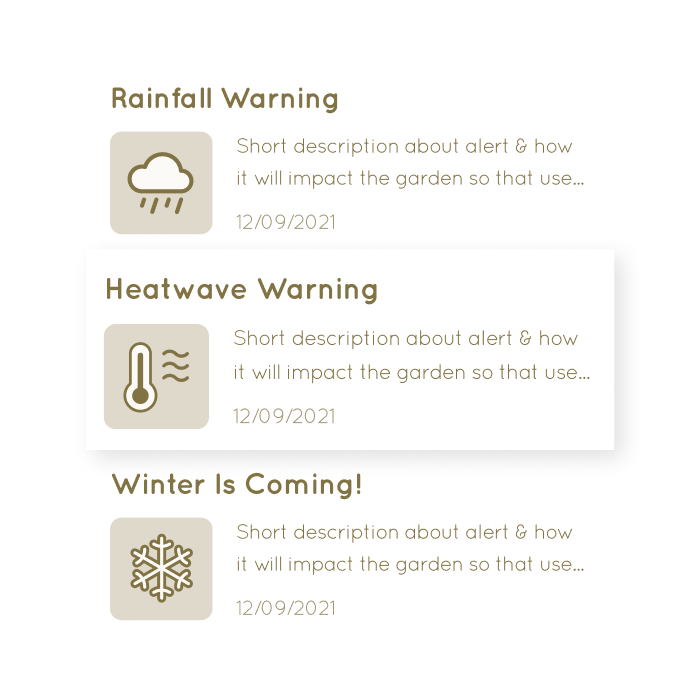
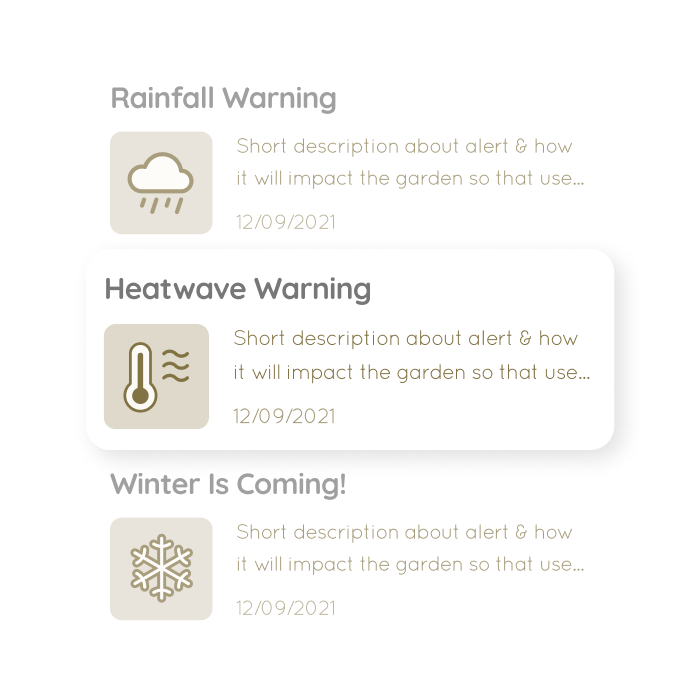
Features polish

diff --git a/style.css b/style.css
@@ -69,17 +69,19 @@ h1 {
 }
 
 h2 {
-  color: #334924;
+  color: #635834;
   font-size: 1.5rem;
   margin: 0;
   letter-spacing: -.02px;
 }
 
-h3, p {
-  color: #635834;
+h3 {
+  color: #827344;
+  margin: .5rem auto;
 }
 
 p {
+  color: #635834;
   font-size: .8rem;
 }
 
@@ -94,14 +96,6 @@ p {
 
 .team-wrapper p {
   margin: .5rem 0;
-}
-
-.features-wrapper h3 {
-  margin: 0.8rem auto;
-}
-
-#team h3 {
-  margin: .5rem auto;
 }
 
 @media screen and (min-width: 768px) {
@@ -211,8 +205,8 @@ main {
   text-align: center;
 }
 
-.features-wrapper p, .team-wrapper p, .features-wrapper h3, .team-wrapper h3, .links {
-  max-width: 82%;
+.features-wrapper p, .team-wrapper p, .links {
+  max-width: 90%;
   margin: .5rem auto;
 }
 
@@ -385,7 +379,7 @@ header img {
 
 .hero-wrapper img {
   width: 50px;
-  opacity: 70%;
+  opacity: 80%;
 }
 
 @media screen and (min-width: 768px) {

diff --git a/sass/partials/typography/_typography.scss b/sass/partials/typography/_typography.scss
@@ -14,15 +14,18 @@ h1 {
     color: #635834;
 }
 h2 {
-    color: #334924;
+    // color: #7D9867;
+    color: #635834;
     font-size: 1.5rem;
     margin: 0;
     letter-spacing: -.02px;
 }
-h3, p {
-    color: #635834;
+h3 { 
+    color: #827344;
+    margin: .5rem auto;
 }
 p {
+    color: #635834;
     font-size: .8rem;
 }
 .hero-wrapper p{
@@ -35,15 +38,6 @@ p {
 .team-wrapper p {
     margin: .5rem 0;
 }
-
-.features-wrapper h3 {
-    margin: 0.8rem auto;
-}
-
-#team h3{
-    margin: .5rem auto;
-}
-
 
 @media screen and (min-width:768px) {
 

diff --git a/sass/partials/layout/_main.scss b/sass/partials/layout/_main.scss
@@ -37,8 +37,8 @@ main {
 .contact-wrapper {
     text-align: center;
 }
-.features-wrapper p, .team-wrapper p, .features-wrapper h3, .team-wrapper h3 , .links{
-    max-width: 82%;
+.features-wrapper p, .team-wrapper p, .links{
+    max-width: 90%;
     margin: .5rem auto;
     // text-align: left;
 }

diff --git a/sass/partials/media/_media.scss b/sass/partials/media/_media.scss
@@ -7,7 +7,7 @@ header img {
 }
 .hero-wrapper img {
     width: 50px;
-    opacity: 70%;
+    opacity: 80%;
 }
 // .features-wrapper img {
 //     max-width: 70%;
